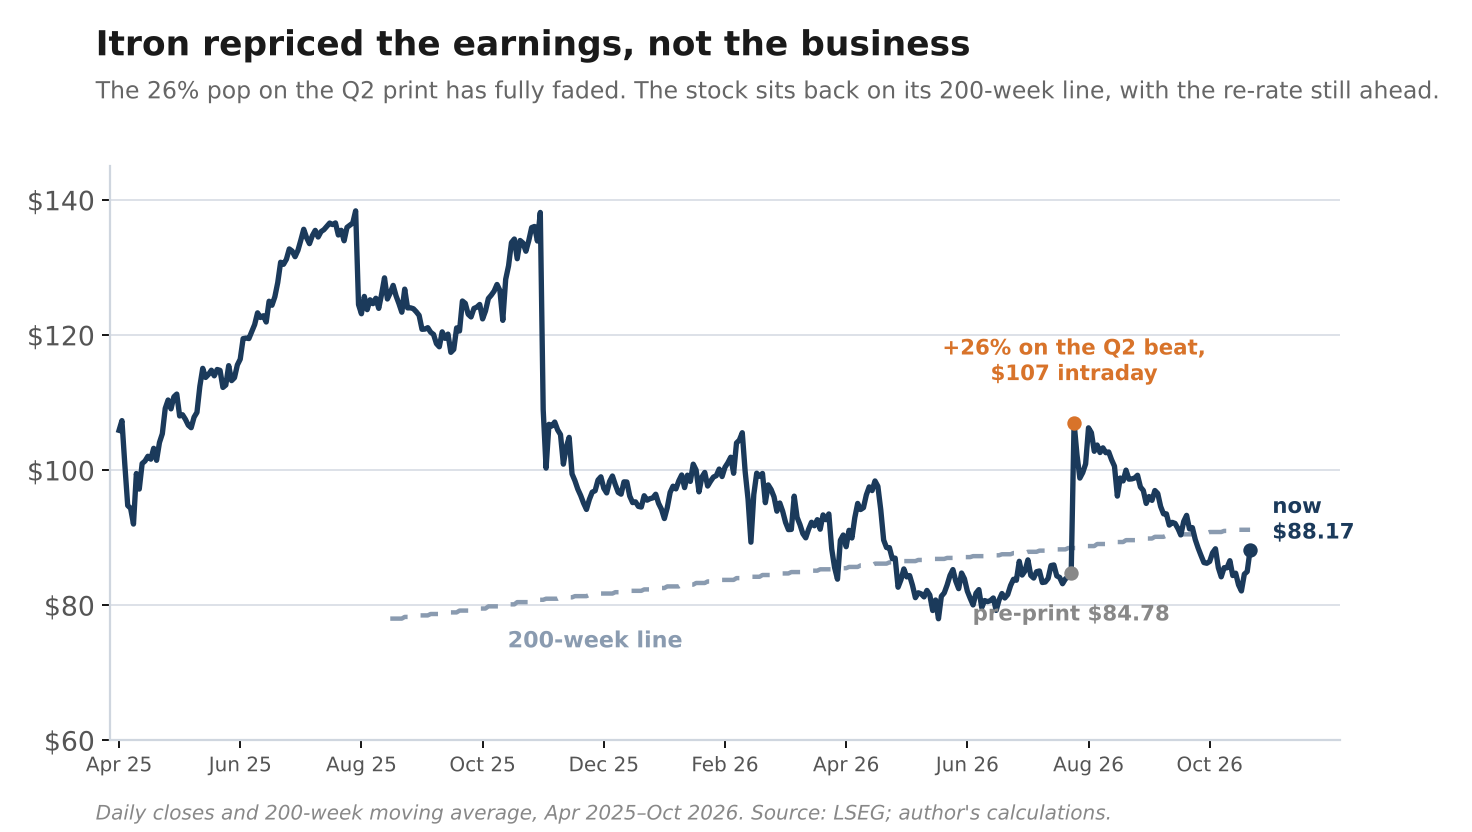
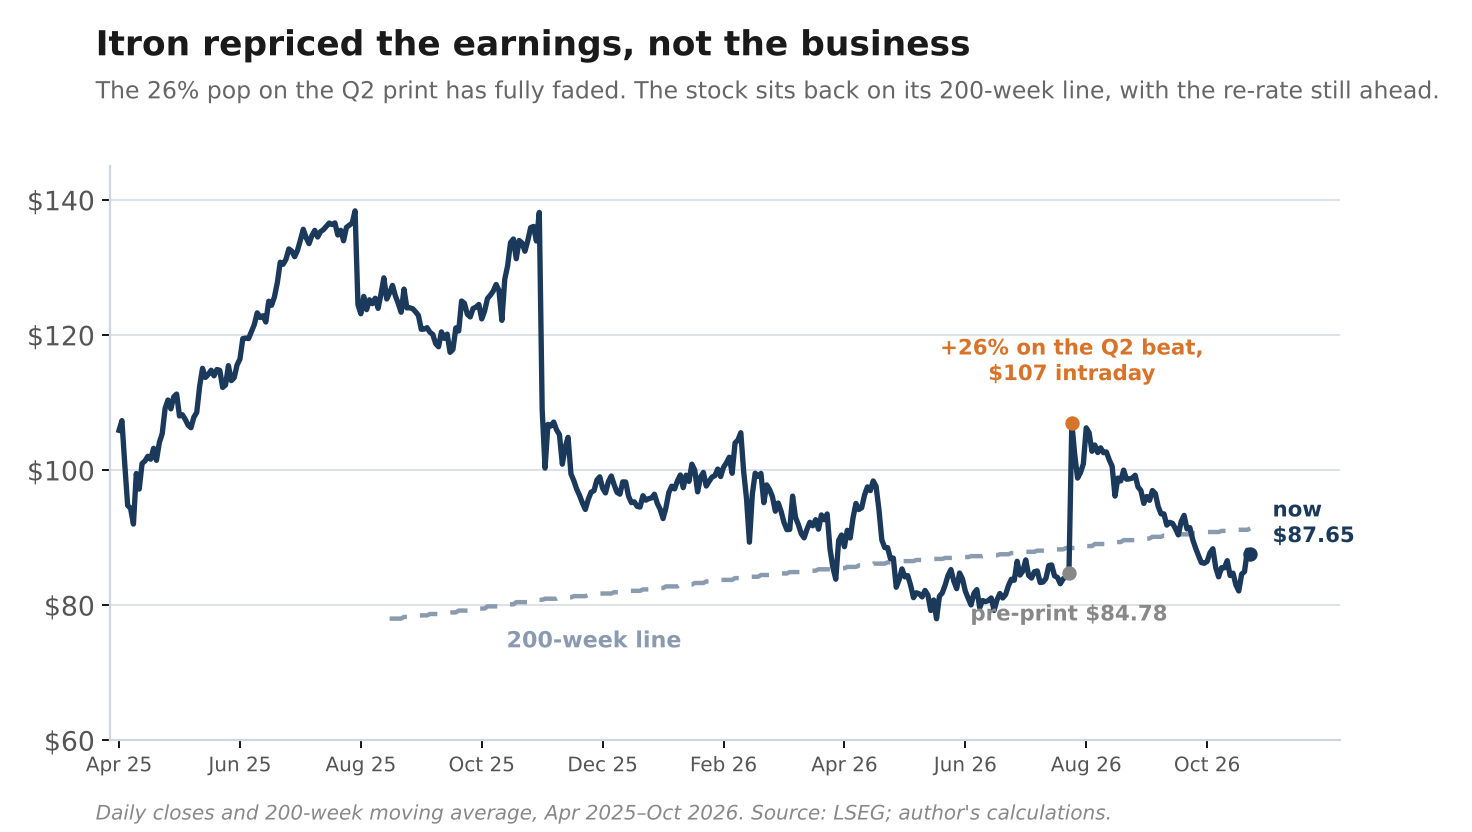
Soften the multiple-channel claim (risk appetite entangled); Itron chart to Oct 23
Claude-Session: https://claude.ai/code/session_01PR1GkAXEASRi1F28SPUd1v

diff --git a/charts/make_duration_charts.py b/charts/make_duration_charts.py
@@ -47,6 +47,7 @@ fig.savefig("charts/entry-dispersion.png",facecolor="white"); print("wrote chart
 
 # ---------- Chart 2: Itron price vs 200-week line, annotated ----------
 itri=load("itri 5y (1).xlsx")
+itri=pd.concat([itri,pd.DataFrame({'Date':[pd.Timestamp('2026-10-23')],'Px':[87.65]})],ignore_index=True)
 w=itri.set_index('Date')['Px'].resample('W-FRI').last()
 ma=w.rolling(200).mean()
 ma_d=ma.reindex(itri['Date'].values,method='ffill').values  # 200w MA aligned to daily
@@ -63,7 +64,7 @@ def mark(date,txt,dy,col=INK,ha="center",dx=0):
         fontweight="bold",va="bottom" if dy>0 else "top")
 mark('2026-07-27',"pre-print $84.78",-14,"#888")
 mark('2026-07-28',"+26% on the Q2 beat,\n$107 intraday",16,ORANGE)
-mark('2026-10-22',"now\n$88.17",2,NAVY,ha="left",dx=10)
+mark('2026-10-23',"now\n$87.65",2,NAVY,ha="left",dx=10)
 # inline 200-week label on the dashed line, mid-chart
 li=int(len(d)*0.42)
 ax.annotate("200-week line",(li,d['ma'].iloc[li]),xytext=(0,-16),textcoords="offset points",color=SLATE,fontsize=10,fontweight="bold",ha="center",va="top")

diff --git a/duration-entry-timing-DRAFT.md b/duration-entry-timing-DRAFT.md
@@ -114,7 +114,7 @@ Entry date mattered five times as much on NVIDIA as on Cheniere, and Cheniere's 
 
 (Betas: Cheniere −1.6%, Itron −10.6%, NVIDIA −16.2%, Adobe −15.7% per one-point move in the ten-year, sixty monthly observations, October 2021 to October 2026. The R-squared runs from roughly zero on Cheniere, where rates explain almost none of the moves, to 0.16 on Adobe, so the relationship is directionally clear and numerically noisy. The drawdown ranking says the same thing without a regression, which is why I lead with it.)
 
-This is the evidence for the claim I could only assert earlier. The textbook DCF said a one-point rate rise should cost a long-duration name about three points more than a short one, 17 against 14. The tape says the long-duration names move something like ten times as much with rates as Cheniere does. The cash flows are the same in both accounts, so the extra has to be the multiple itself moving, sentiment draining out of the part of the value that sits furthest out. That is the piece the arithmetic never captured.
+This is the evidence for the claim I could only assert earlier. The textbook DCF said a one-point rate rise should cost a long-duration name about three points more than a short one, 17 against 14. The tape says the long-duration names move something like ten times as much with rates as Cheniere does. The cash flows are the same in both accounts, so the extra is the market repricing those far-out years, the multiple rather than the math. Some of it is just risk appetite, since these are high-beta names that sell off when money gets scared, so I read the multiple as most of that gap, not all of it. Either way it is the piece the arithmetic never captured.
 
 One last cut, because it is the rule the chart crowd actually uses. There is a well-worn line, usually hung on Charlie Munger though the quote is almost certainly apocryphal, that you buy quality names when they fall to their 200-week moving average. The 200-week part matters, and it is the part people get wrong by reaching for the 200-day, as I did at first. A quality name touches its 200-day line constantly. It touches its 200-week line only in a real dislocation. Run the 200-week line on the four names with price histories and it flags exactly one. Itron sits about 4% below its 200-week line today. Cheniere trades 44% above its line and NVIDIA 77% above, and neither has been near it in five years. Adobe sits 34% below a 200-week line dragged up by three years of $400-to-$600 prices that are not coming back, a lagging average, not a buy signal. The rule points at the one name where the re-rate has not happened, and says nothing on the names carried by growth or capped by a floor. One firing across five years is an observation, not a test. A real test of whether the rule works wants fifteen years and a cross-section of names, and that is a separate post.
 
